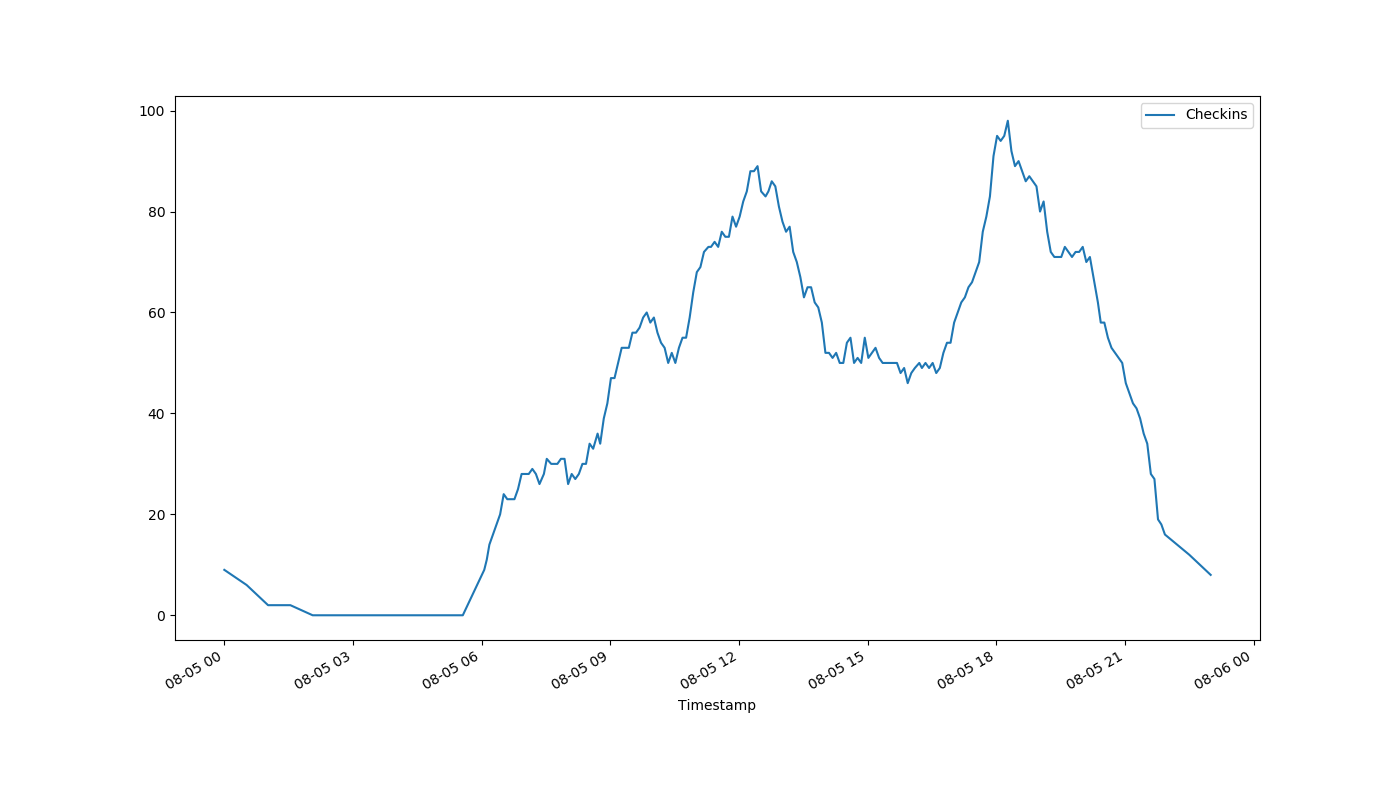
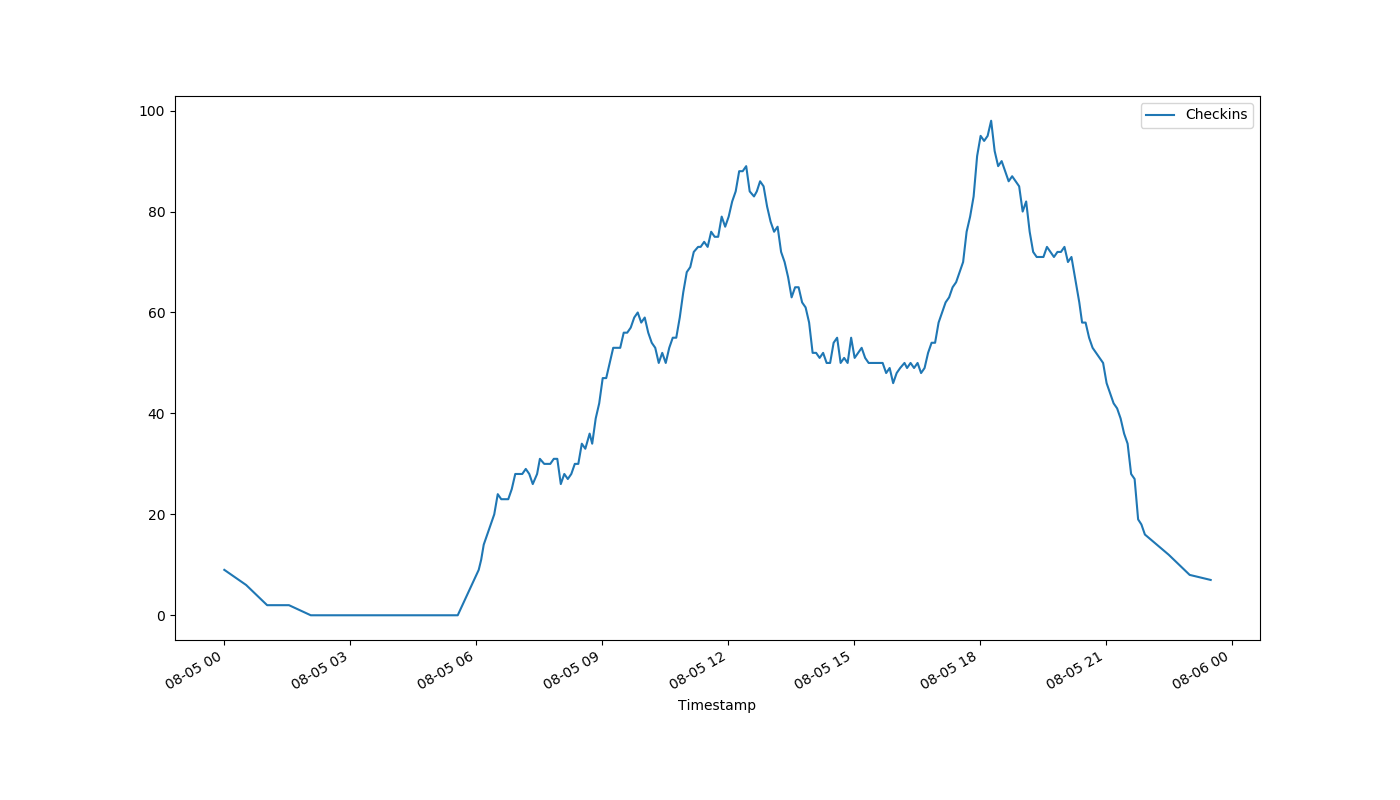
auto-Aug-05-23:31:46

diff --git a/index.html b/index.html
@@ -1,1 +1,1 @@
-<!DOCTYPE html><html><head><meta http-equiv="refresh" content="30"><link rel='stylesheet' href='holmcurrent.css'></head><body><p id='count'>8</p><div id='graph-wrap'><img id='graph' src='holmgraph-Aug-05.png'></div><p id='updated'>Last updated 23:00:11 / 23:00:01</p></body></html>
+<!DOCTYPE html><html><head><meta http-equiv="refresh" content="30"><link rel='stylesheet' href='holmcurrent.css'></head><body><p id='count'>7</p><div id='graph-wrap'><img id='graph' src='holmgraph-Aug-05.png'></div><p id='updated'>Last updated 23:30:11 / 23:30:02</p></body></html>
